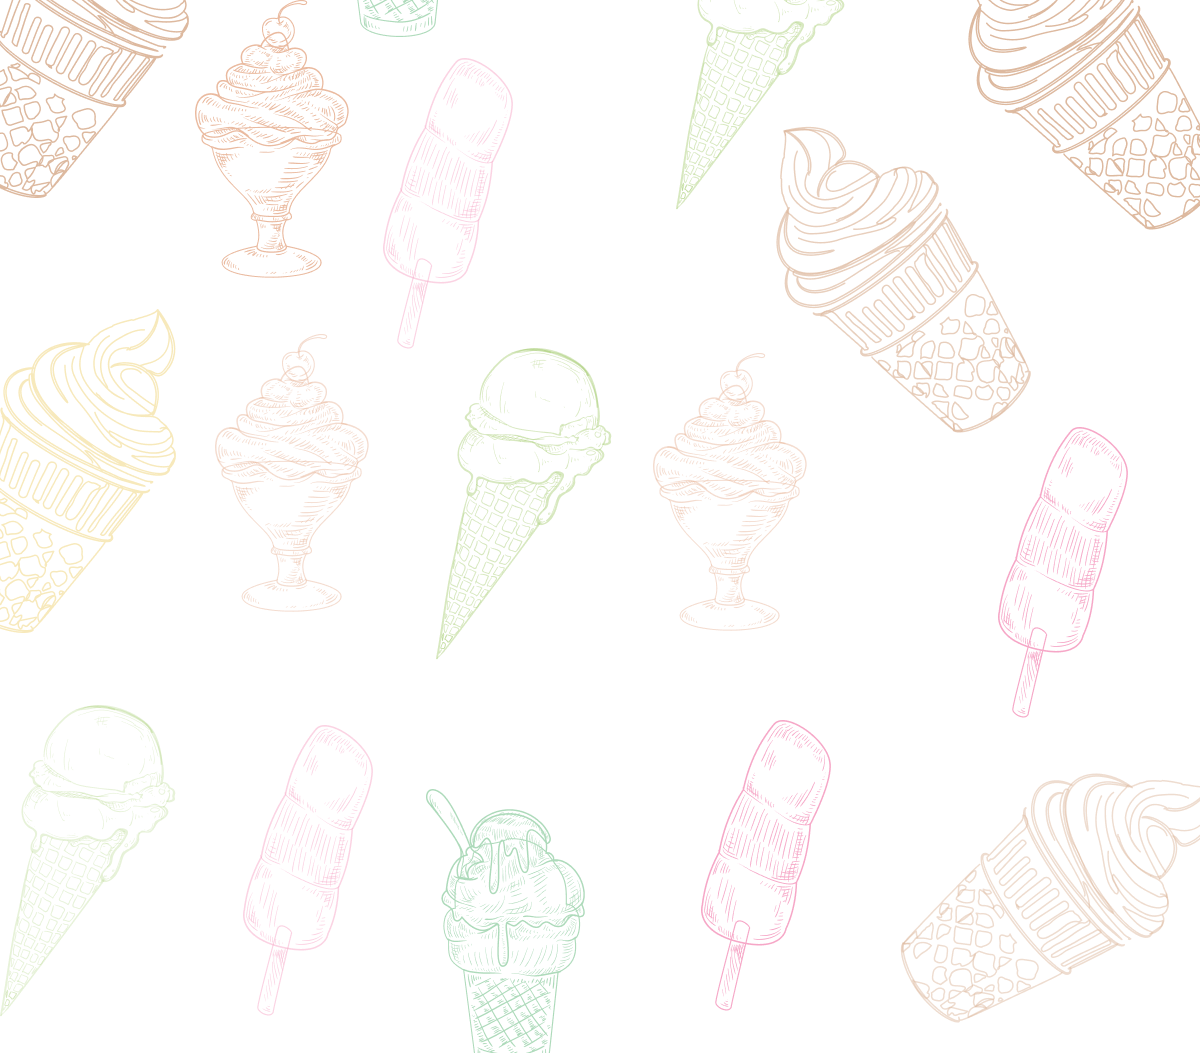
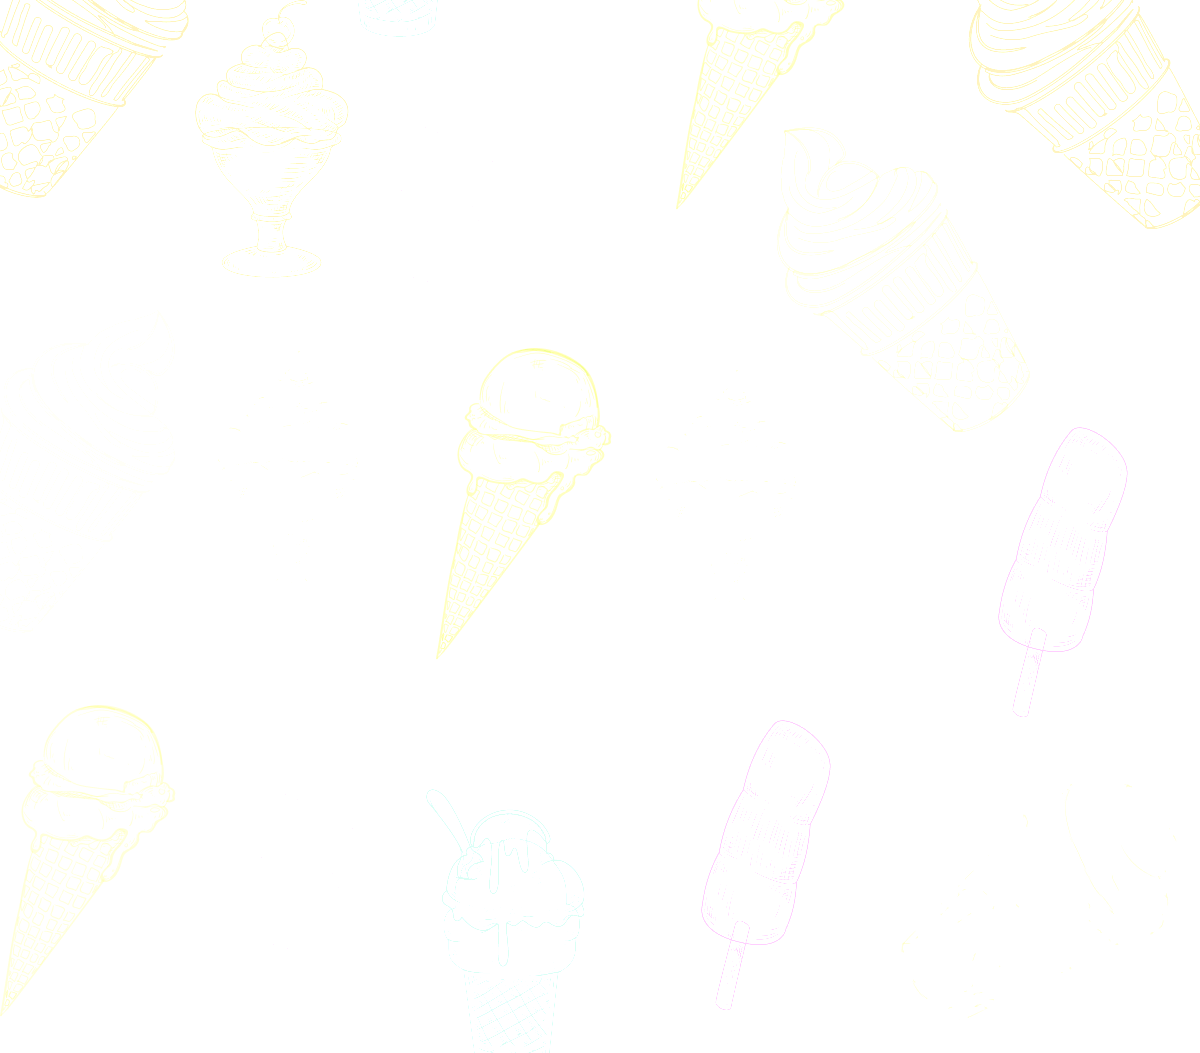
change bg img

diff --git a/src/sass/main.css b/src/sass/main.css
@@ -848,7 +848,7 @@ button:hover {
 }
 
 .section__products {
-  background-image: url(../images/background/mobile/background_mobile_885.png);
+  background-image: url(../images/background/mobile/ice-cream-885.png);
   background-position: center;
   background-repeat: no-repeat;
   background-size: cover;
@@ -856,27 +856,27 @@ button:hover {
 }
 @media (min-device-pixel-ratio: 2), (-webkit-min-device-pixel-ratio: 2), (min-resolution: 192dpi), (min-resolution: 2dppx) {
   .section__products {
-    background-image: url(../images/background/mobile/background_mobile_1770.png);
+    background-image: url(../images/background/mobile/ice-cream-885@2x.png);
   }
 }
 @media screen and (min-width: 768px) {
   .section__products {
-    background-image: url(../images/background/tablet/background_tablet_963.png);
+    background-image: url(../images/background/tablet/ice-cream-963.png);
   }
 }
 @media screen and (min-width: 768px) and (min-device-pixel-ratio: 2), screen and (min-width: 768px) and (-webkit-min-device-pixel-ratio: 2), screen and (min-width: 768px) and (min-resolution: 192dpi), screen and (min-width: 768px) and (min-resolution: 2dppx) {
   .section__products {
-    background-image: url(../images/background/tablet/background_tablet_1926.png);
+    background-image: url(../images/background/tablet/ice-cream-963@2x.png);
   }
 }
 @media screen and (min-width: 1200px) {
   .section__products {
-    background-image: url(../images/background/desktop/background_desktop_1300.png);
+    background-image: url(../images/background/desktop/ice-cream-1300.png);
   }
 }
 @media screen and (min-width: 1200px) and (min-device-pixel-ratio: 2), screen and (min-width: 1200px) and (-webkit-min-device-pixel-ratio: 2), screen and (min-width: 1200px) and (min-resolution: 192dpi), screen and (min-width: 1200px) and (min-resolution: 2dppx) {
   .section__products {
-    background-image: url(../images/background/desktop/background_desktop_2600.png);
+    background-image: url(../images/background/desktop/ice-cream-1300@2x.png);
   }
 }
 

diff --git a/src/sass/components/_products.scss b/src/sass/components/_products.scss
@@ -1,5 +1,5 @@
 .section__products {
-  background-image: url(../images/background/mobile/background_mobile_885.png);
+  background-image: url(../images/background/mobile/ice-cream-885.png);
   background-position: center;
   background-repeat: no-repeat;
   background-size: cover;
@@ -7,24 +7,24 @@
   @media (min-device-pixel-ratio: 2),
     (min-resolution: 192dpi),
     (min-resolution: 2dppx) {
-    background-image: url(../images/background/mobile/background_mobile_1770.png);
+    background-image: url(../images/background/mobile/ice-cream-885@2x.png);
   }
 
   @media screen and (min-width: 768px) {
-    background-image: url(../images/background/tablet/background_tablet_963.png);
+    background-image: url(../images/background/tablet/ice-cream-963.png);
     @media (min-device-pixel-ratio: 2),
       (min-resolution: 192dpi),
       (min-resolution: 2dppx) {
-      background-image: url(../images/background/tablet/background_tablet_1926.png);
+      background-image: url(../images/background/tablet/ice-cream-963@2x.png);
     }
   }
 
   @media screen and (min-width: 1200px) {
-    background-image: url(../images/background/desktop/background_desktop_1300.png);
+    background-image: url(../images/background/desktop/ice-cream-1300.png);
     @media (min-device-pixel-ratio: 2),
       (min-resolution: 192dpi),
       (min-resolution: 2dppx) {
-      background-image: url(../images/background/desktop/background_desktop_2600.png);
+      background-image: url(../images/background/desktop/ice-cream-1300@2x.png);
     }
   }
 }
